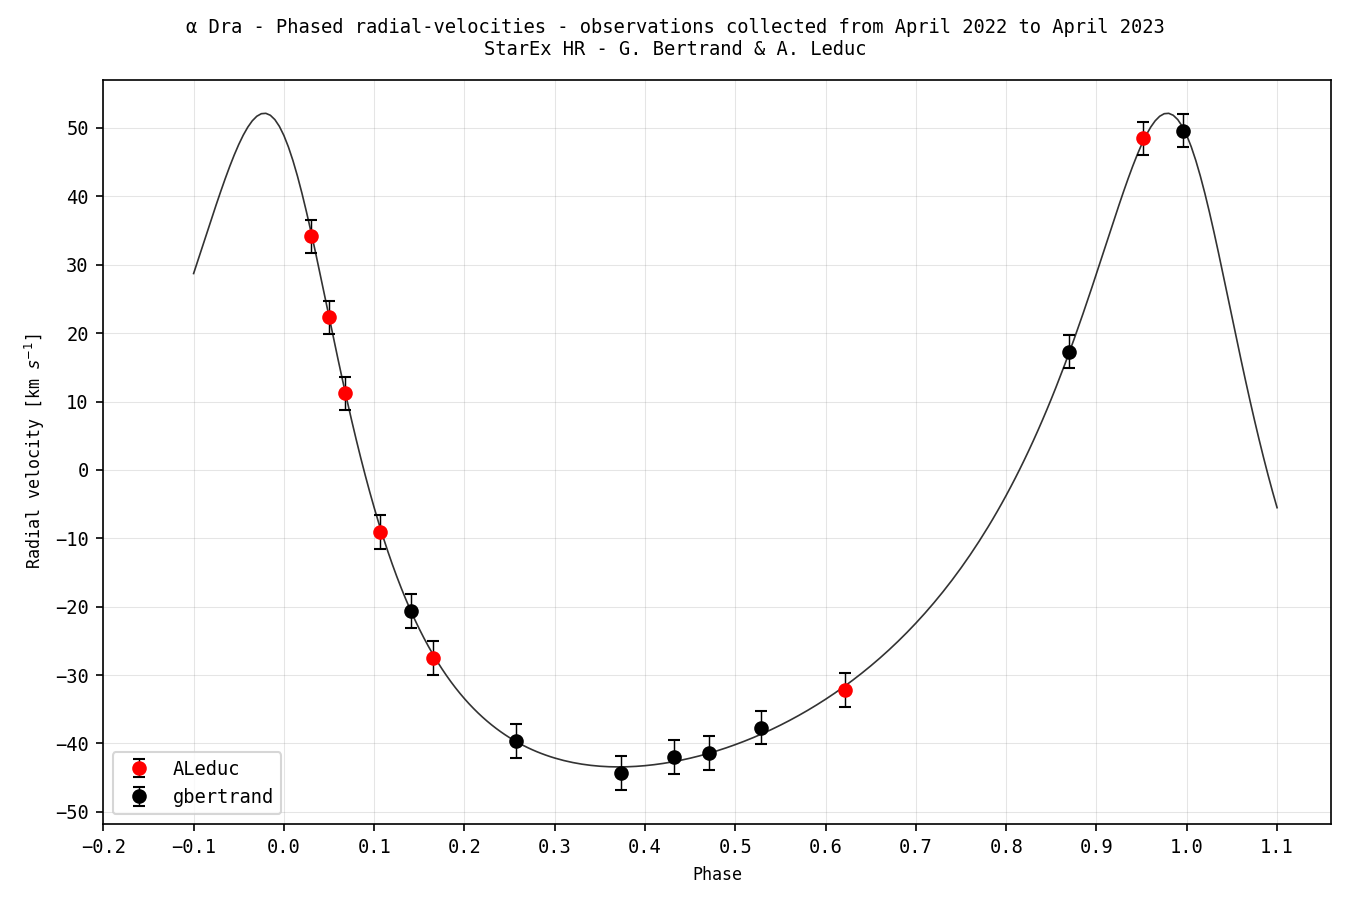
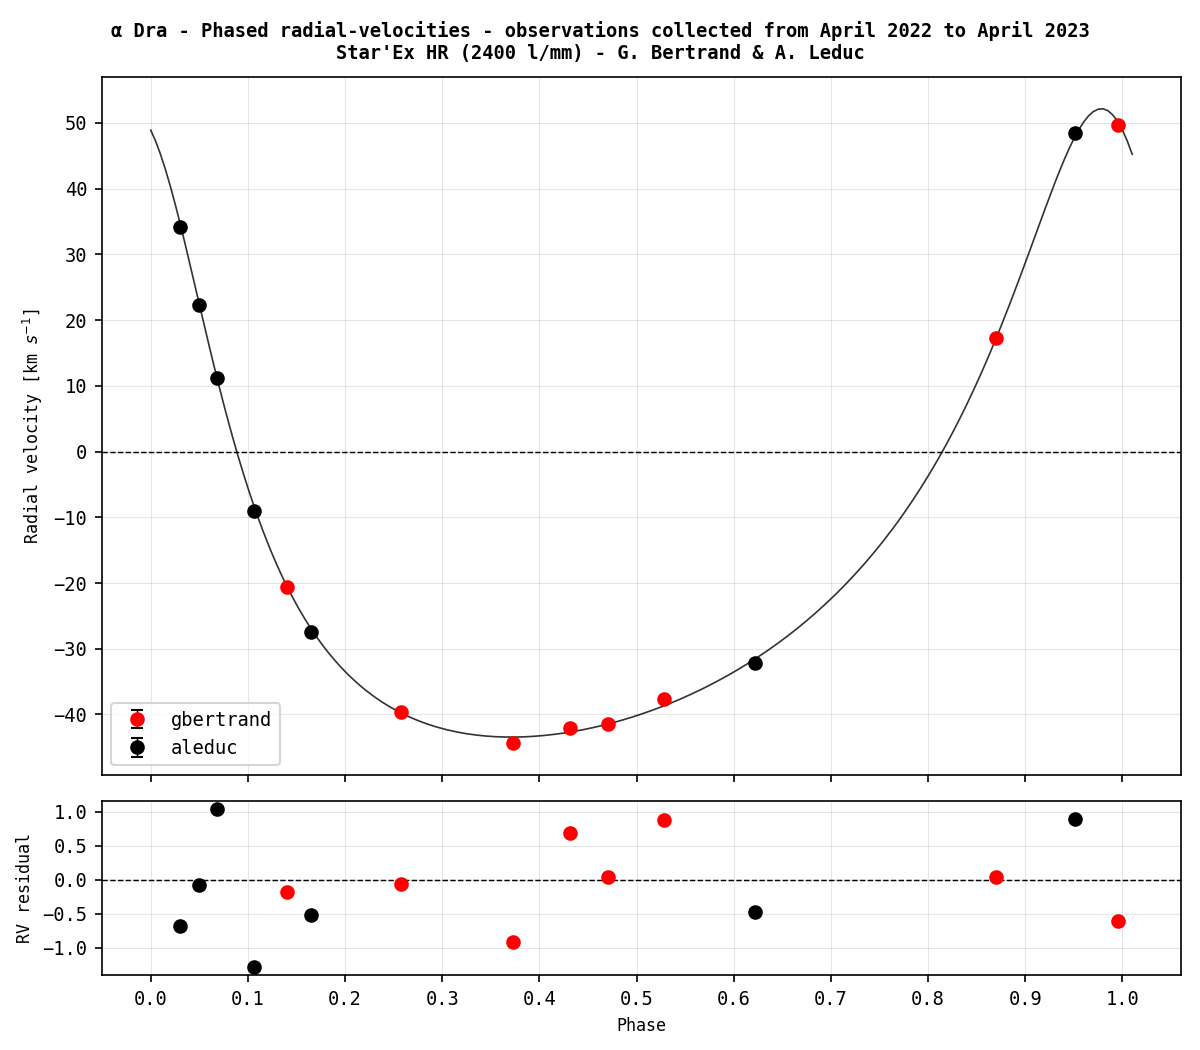
feat

diff --git a/bss.py b/bss.py
@@ -59,7 +59,7 @@ def extractObservations(specs, period = None):
     if __debug_mode__:
         plt.rcParams['font.size'] = '6'
         plt.rcParams['font.family'] = 'monospace'
-        fig, axs = plt.subplots(math.ceil(len(specs)/4), math.ceil(len(specs)/4), figsize=(11,7))
+        fig, axs = plt.subplots(math.ceil(len(specs)/4), math.ceil(len(specs)/4), figsize=(11,7), sharex=True, sharey=True)
     
     obs = {}
     i = 0
@@ -91,7 +91,7 @@ def extractObservations(specs, period = None):
         i+=1
     
     if __debug_mode__:
-        plt.tight_layout(pad=0.8, w_pad=0, h_pad=1)
+        plt.tight_layout(pad=0.8, w_pad=1.5, h_pad=1)
         plt.savefig(wdir+'/bss_debug_result.png', dpi=conf['dpi'])
         plt.show()
     return obs
@@ -116,13 +116,17 @@ def radialVelocityCorrection(skycoord, jd, longitude, latitude, elevation):
     vcorr = skycoord.radial_velocity_correction(kind=conf['radial_velocity_correction'], obstime=t, location=loc)  
     return vcorr.to(u.km / u.s)
 
+def findNearest(array, value):
+    array = np.asarray(array)
+    return (np.abs(array - value)).argmin()
+
 def findCenterOfLine(spectrum,ax,dispersion):
     specdata = spectrum[0].data
     header = spectrum[0].header
     with warnings.catch_warnings():  # Ignore warnings
         warnings.simplefilter('ignore')
 
-        wcs_data = fitswcs.WCS(header={'CDELT1': float(header['CDELT1']), 'CRVAL1': header['CRVAL1'],
+        wcs_data = fitswcs.WCS(header={'CDELT1': header['CDELT1'], 'CRVAL1': header['CRVAL1'],
                                     'CUNIT1': 'Angstroms', 'CTYPE1': 'WAVE',
                                     'CRPIX1': header['CRPIX1']})
         flux= specdata * u.Jy
@@ -173,19 +177,22 @@ def findCenterOfLine(spectrum,ax,dispersion):
 def initPlot():
     plt.rcParams['font.size'] = conf['font_size']
     plt.rcParams['font.family'] = conf['font_family']
-    fig, ax =  plt.subplots(figsize=(9,6))
-    plt.suptitle(conf['title']+'\n'+conf['subtitle'],fontsize=conf['title_font_size'], fontweight=0, color='black' )
-    ax.set_xlabel('Phase', fontdict=None, labelpad=None, fontname = 'monospace',size=8)
-    ax.set_ylabel('Radial velocity [km $s^{-1}$]', fontdict=None, labelpad=None, fontname = 'monospace',size=8)
-    ax.grid(color='grey', alpha=0.2, linestyle='-', linewidth=0.5, axis='both', which='both')
-    return (fig, ax)
+    fig, axs =  plt.subplots(2,1,figsize=(8,7),gridspec_kw={'height_ratios': [4, 1]}, sharex=True)
+    plt.suptitle(conf['title']+'\n'+conf['subtitle'],fontsize=conf['title_font_size'],fontweight="bold", color='black' )
+    axs[1].set_xlabel('Phase', fontdict=None, labelpad=None, fontname = 'monospace',size=8)
+    axs[0].set_ylabel('Radial velocity [km $s^{-1}$]', fontdict=None, labelpad=None, fontname = 'monospace',size=8)
+    axs[1].set_ylabel('RV residual', fontdict=None, labelpad=None, fontname = 'monospace',size=8)
+    axs[0].grid(color='grey', alpha=0.2, linestyle='-', linewidth=0.5, axis='both', which='both')
+    axs[1].grid(color='grey', alpha=0.2, linestyle='-', linewidth=0.5, axis='both', which='both')
+    return (fig, axs)
 
-def plotRadialVelocityCurve(v0, K, e, w, jd0,color="red", lw=0.5, alpha=1, label=""):
-    model_x = np.arange(-.1,1.1, 0.005)
+def plotRadialVelocityCurve(ax, v0, K, e, w, jd0,color="red", lw=0.5, alpha=1, label=""):
+    model_x = np.arange(0,1.011, 0.005)
     model_y = list(map(lambda x: getRadialVelocityCurve(x,jd0,K,e,w,v0), model_x))
-    plt.plot(model_x, model_y, color, alpha=alpha, lw=lw, label=label)
+    ax.plot(model_x, model_y, color, alpha=alpha, lw=lw, label=label)
+    return (model_x, model_y)
 
-def plotRadialVelocityDotsFromData(specs, period, jd0, error):  
+def plotRadialVelocityDotsFromData(specs, period, jd0, error, axs, model):  
     if(period):
         for jd in specs:
             phase = getPhase(float(jd0), period, float(jd))
@@ -202,17 +209,23 @@ def plotRadialVelocityDotsFromData(specs, period, jd0, error):
             else:
                 colors[s['header']['OBSERVER']] = 'k'
             i+=1
-            plt.errorbar(s['phase'], s['radial_velocity'][0].value,yerr = error[1]*2*3, label=s['header']['OBSERVER'], ecolor='k', capsize=3,fmt ='o', color=colors[s['header']['OBSERVER']], lw=0.7)
+            axs[0].errorbar(s['phase'], s['radial_velocity'][0].value,yerr = 0, label=s['header']['OBSERVER'].lower(), ecolor='k', capsize=3,fmt ='o', color=colors[s['header']['OBSERVER']], lw=0.7)
         else:
-            plt.errorbar(s['phase'], s['radial_velocity'][0].value,yerr = error[1]*2*3, fmt ='o', ecolor='k', capsize=3,color=colors[s['header']['OBSERVER']], lw=.7)        
+            axs[0].errorbar(s['phase'], s['radial_velocity'][0].value,yerr = 0, fmt ='o', ecolor='k', capsize=3,color=colors[s['header']['OBSERVER']], lw=.7)    
+        
+        xindex = findNearest(model[0], s['phase'])
+        axs[1].errorbar(s['phase'], s['radial_velocity'][0].value- model[1][xindex],yerr = 0, fmt ='o', ecolor='k', capsize=3,color=colors[s['header']['OBSERVER']], lw=.7)            
     
 def saveAndShowPlot(ax):
-    ax.yaxis.set_major_locator(MultipleLocator(10))
-    ax.xaxis.set_major_locator(MultipleLocator(0.1))
+    ax[0].yaxis.set_major_locator(MultipleLocator(10))
+    ax[0].axhline(0, color='black', linewidth=0.7, linestyle="--")
+
+    ax[1].yaxis.set_major_locator(MultipleLocator(0.5))
+    ax[1].axhline(0, color='black', linewidth=0.7, linestyle="--")
     
-    plt.legend() 
-    plt.tight_layout(pad=1, w_pad=0, h_pad=0)
-    plt.xticks(np.arange(-0.2, 1.2, 0.1))
+    ax[0].legend() 
+    plt.tight_layout(pad=1, w_pad=0, h_pad=1)
+    plt.xticks(np.arange(0, 1.01, 0.1))
     plt.savefig(wdir+'/bss_phased_result.png', dpi=conf['dpi'])
     plt.show()  
 
@@ -280,13 +293,13 @@ if __name__ == '__main__':
                 output = '%s %s' % (float(key)-2400000., round(value['radial_velocity'][0].value,3))
                 f.write(output+'\n')
 
-        (fig, ax) = initPlot()
+        (fig, axs) = initPlot()
         #[γ, K, ω, e, T0, P, a, f(M)]
         params, err, cov = StarSolve(data_file = wdir+"/bss_results.txt", star = "primary", Period= conf['period'], Pguess=conf['period_guess'], covariance = True, graphs=False)
         jd0 = params[4] + 2400000
-        plotRadialVelocityCurve(params[0], params[1], params[3], params[2], 0, conf['line_color'], 0.8, 0.8)
-        plotRadialVelocityDotsFromData(data, params[5], jd0, err)
-        saveAndShowPlot(ax)
+        model = plotRadialVelocityCurve(axs[0], params[0], params[1], params[3], params[2], 0, conf['line_color'], 0.8, 0.8)
+        plotRadialVelocityDotsFromData(data, params[5], jd0, err, axs, model)
+        saveAndShowPlot(axs)
         print('[γ, K, ω, e, T0, P, a, f(M)]')
         print(params)
         print(err)
